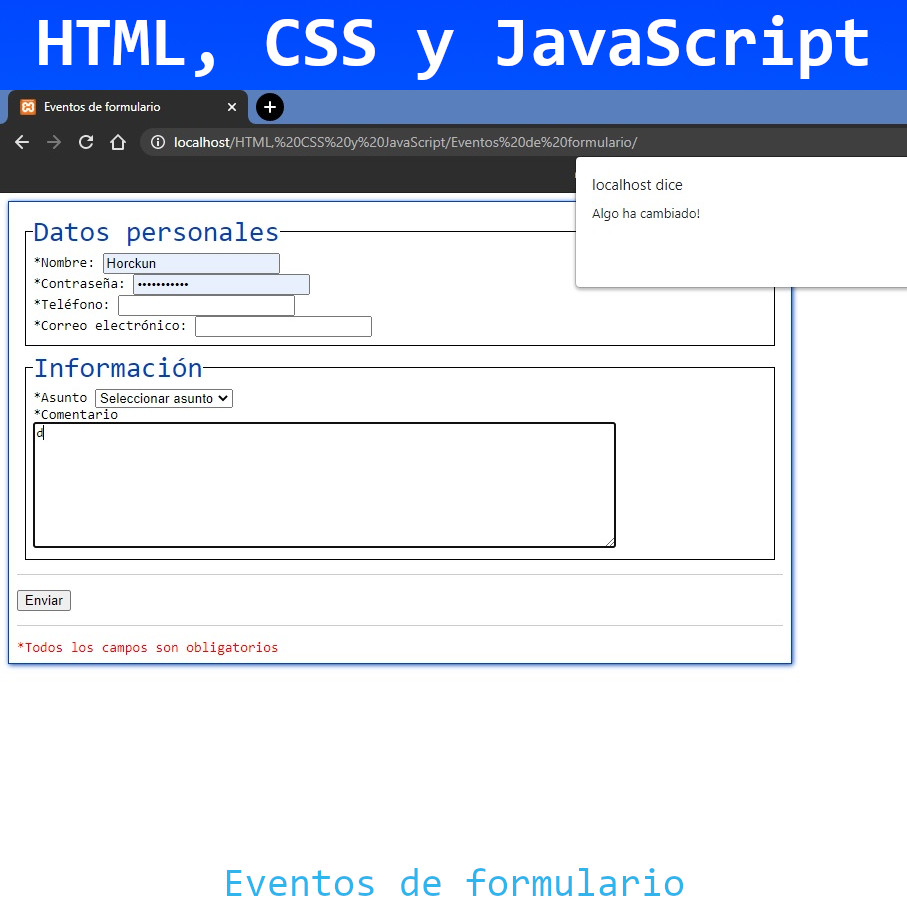
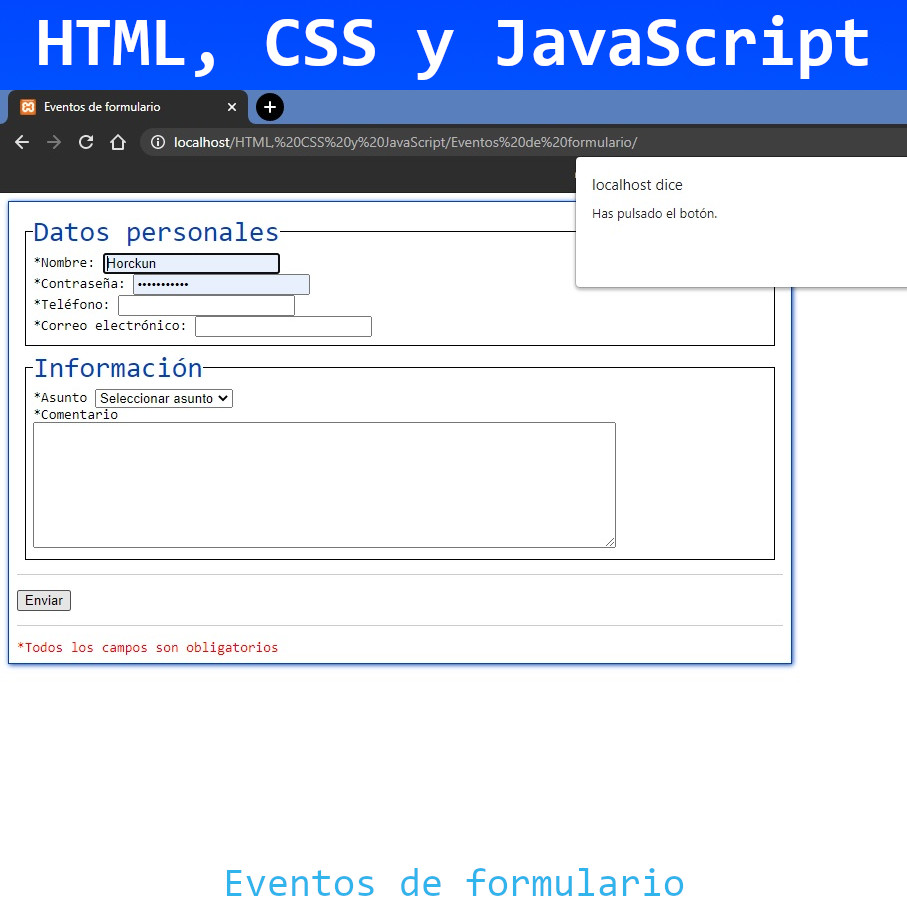
Eventos de formulatio
Eventos de formulatio en JavaScript

diff --git a/HTML, CSS y JavaScript/Eventos de formulario/index.html b/HTML, CSS y JavaScript/Eventos de formulario/index.html
@@ -49,7 +49,8 @@
         <textarea name="texto" rows="8" cols="80" onchange="alert('Algo ha cambiado!')"></textarea>
       </fieldset>
       <hr>
-      <button type="submit" name="button">Enviar</button>
+      <!-- salta una alerta cuando pulsamos el botón -->
+      <button type="submit" name="button" onfocus="alert('Has pulsado el botón.')">Enviar</button>
       <hr>
       <p style="color:red;">*Todos los campos son obligatorios</p>
     </form>
